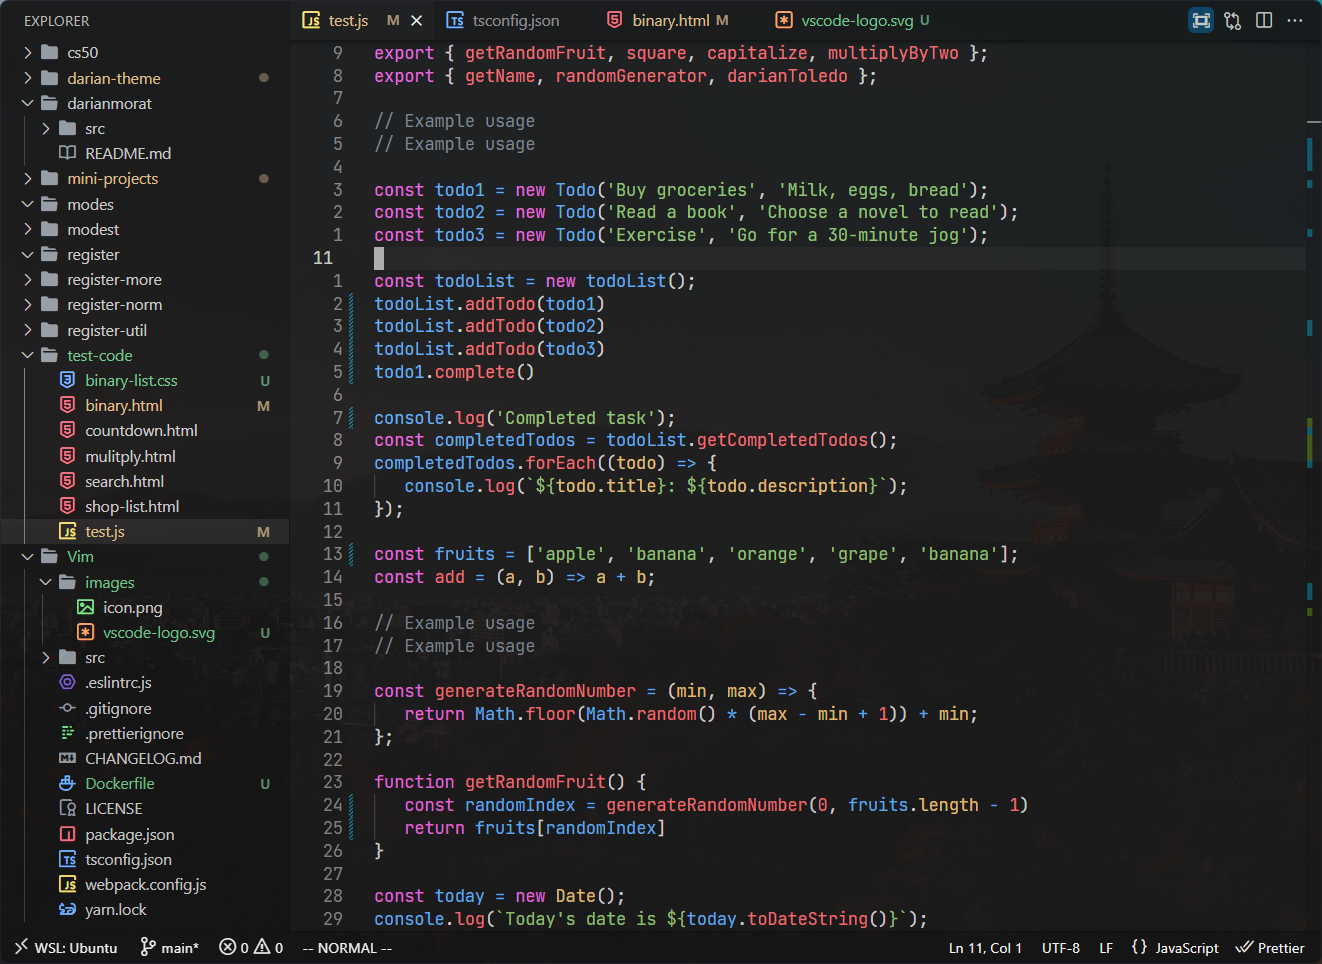
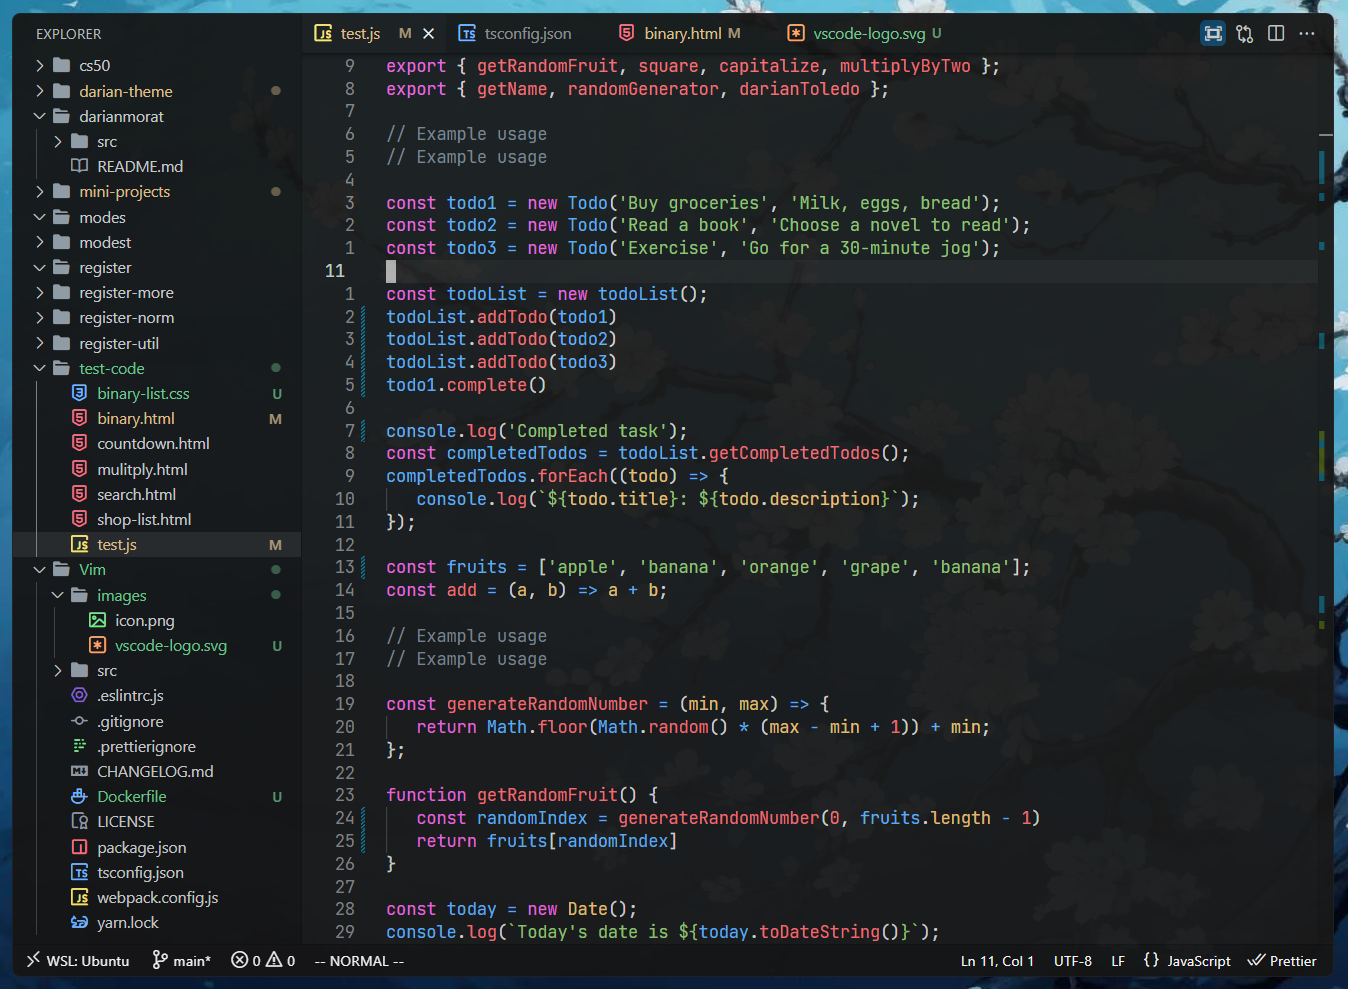
Update README.md & package.json

diff --git a/README.md b/README.md
@@ -1,7 +1,6 @@
 <!-- Cover image -->
-
----
----
+<!-- ---
+--- -->
 
 ### Darian Theme
 
@@ -38,7 +37,7 @@ You can customize your **vscode** with [Apc Customize UI++](https://marketplace.
    "apc.menubar.compact": true,
    "apc.electron": {
       "frame": false,
-      "opacity": 0.94
+      "opacity": 0.95
    },
 
    "workbench.activityBar.location": "hidden",
